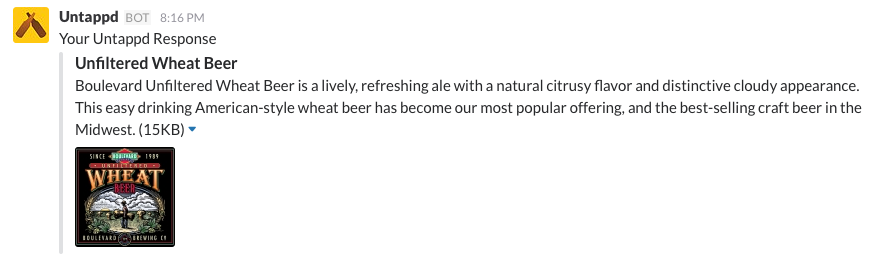
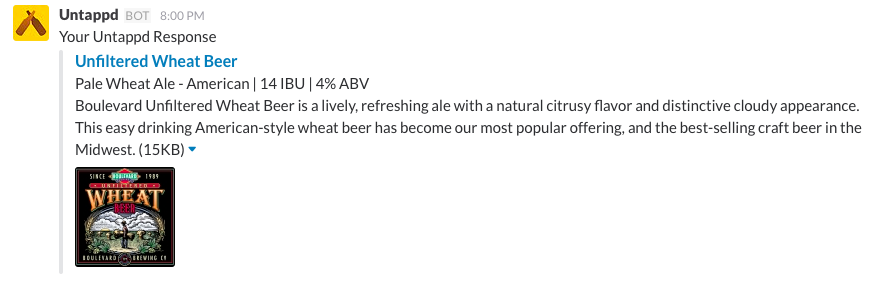
Update README and example image

Changed region(s): [[0.0, 0.0, 0.9841, 0.9624]]

diff --git a/README.md b/README.md
@@ -1,6 +1,6 @@
 # Slack Untappd
 
-A [Slack](https://slack.com/) [slash command server](https://api.slack.com/slash-commands) for searching for beer information via the [Untappd Beer Search API](https://untappd.com/api/docs#userbeers).
+A [Slack](https://slack.com/) [(Slash Command Server)](https://api.slack.com/slash-commands) for searching the [Untappd Beer Search API](https://untappd.com/api/docs#userbeers) for information about a given beer.
 
 ## Basic Usage
 
@@ -10,7 +10,7 @@ A [Slack](https://slack.com/) [slash command server](https://api.slack.com/slash
 
 The following environment variables must be set:
 
-* `SLACK_TOKEN` - The token assigned to the slash command integration
+* `SLACK_TOKEN` - The token assigned to the slash command integration (can contain multiple comma seperated tokens)
 * `UNTAPPD_CLIENT_ID` - Your Untappd API client ID
 * `UNTAPPD_CLIENT_SECRET` - Your Untappd API client secret token
 
@@ -35,7 +35,7 @@ The server will do a lookup on the Untappd API for the given `text` in the Slack
 The following request:
 
 ```
-http://localhost:3000/?token=123Token456&user_name=kpurdon&text=Boulevard+Wheat
+[server_url]/?token=123Token456&user_name=kpurdon&text=Boulevard+Wheat
 ```
 
 will generate the following JSON response:
@@ -46,8 +46,8 @@ will generate the following JSON response:
   text: "Your Untappd Response",
   attachments: [
     {
-      title: "Unfiltered Wheat Beer",
-      text: "Boulevard Unfiltered Wheat Beer is a lively, refreshing ale with a     natural citrusy flavor and distinctive cloudy appearance. This easy drinking American-style wheat beer has become our most popular offering, and the best-selling craft beer in the Midwest.",
+      title: "<https://untappd.com/b/unfiltered-wheat-beer/10501|Unfiltered Wheat Beer>",
+      text: "Pale Wheat Ale - American | 14 IBU | 4% ABV Boulevard Unfiltered Wheat Beer is a lively, refreshing ale with a natural citrusy flavor and distinctive cloudy appearance. This easy drinking American-style wheat beer has become our most popular offering, and the best-selling craft beer in the Midwest.",
       image_url: "https://untappd.akamaized.net/site/beer_logos/beer-_10501_sm_223bb99cc9949e694ada7d88309095.jpeg"
     }
   ]
